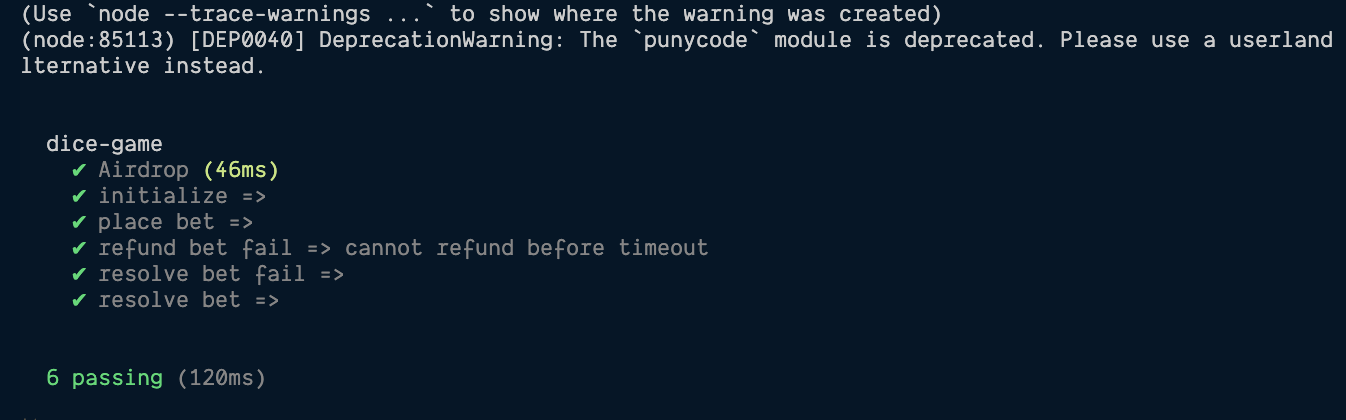
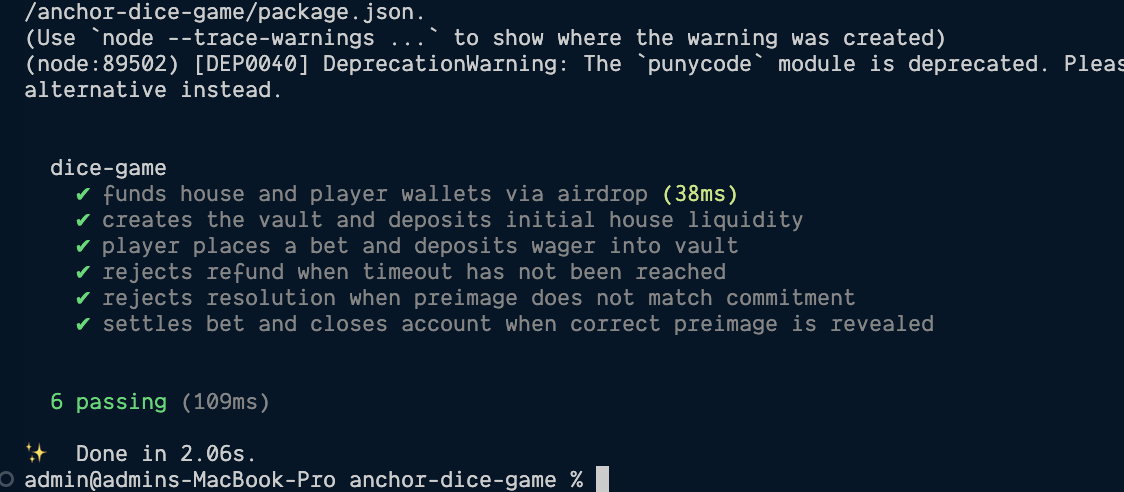
update anchor tests

diff --git a/anchor-dice-game/tests/anchor-dice-game.ts b/anchor-dice-game/tests/anchor-dice-game.ts
@@ -54,7 +54,7 @@ describe("dice-game", () => {
     await conn.confirmTransaction({ signature: txSig, ...recentBlockhash }, FINALITY);
   };
 
-  it("Airdrop", async () => {
+  it("funds house and player wallets via airdrop", async () => {
     await Promise.all(
       [houseKeypair, playerKeypair].map(({ publicKey }) =>
         anchor.getProvider().connection.requestAirdrop(publicKey, 1000 * LAMPORTS_PER_SOL).then(waitForTx)
@@ -62,7 +62,7 @@ describe("dice-game", () => {
     );
   });
 
-  it("initialize =>", async () => {
+  it("creates the vault and deposits initial house liquidity", async () => {
     await diceProgram.methods
       .initialize(new BN(100 * LAMPORTS_PER_SOL))
       .accountsStrict({
@@ -75,7 +75,7 @@ describe("dice-game", () => {
       .then(waitForTx);
   });
 
-  it("place bet =>", async () => {
+  it("player places a bet and deposits wager into vault", async () => {
     await diceProgram.methods
       .placeBet(betSeed, new BN(WAGER_AMOUNT), ROLL_GUESS, Array.from(HASHED_SECRET))
       .accountsStrict({
@@ -90,7 +90,7 @@ describe("dice-game", () => {
       .then(waitForTx);
   });
 
-  it("refund bet fail => cannot refund before timeout", async () => {
+  it("rejects refund when timeout has not been reached", async () => {
     try {
       await diceProgram.methods
         .refundBet()
@@ -109,7 +109,7 @@ describe("dice-game", () => {
     }
   });
 
-  it("resolve bet fail => ", async () => {
+  it("rejects resolution when preimage does not match commitment", async () => {
     const [fakeRevealIx, resolveIx] = await Promise.all([
       diceProgram.methods
         .reveal(randomBytes(32))
@@ -142,7 +142,7 @@ describe("dice-game", () => {
     if (!didFail) throw new Error("Expected resolve transaction to fail but it succeeded");
   });
 
-  it("resolve bet => ", async () => {
+  it("settles bet and closes account when correct preimage is revealed", async () => {
     const [revealIx, resolveIx] = await Promise.all([
       diceProgram.methods
         .reveal(SECRET_BYTES)